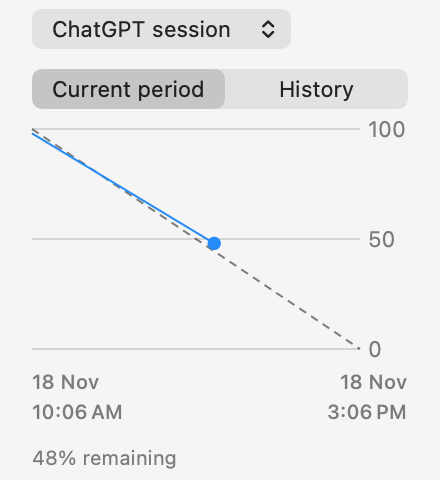
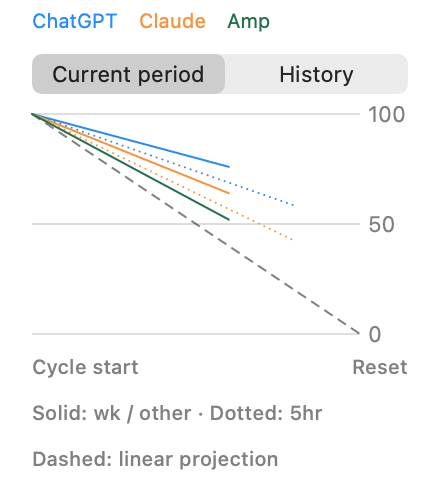
Align provider usage charts and restore fresh Claude updates
Overlay provider limits with normalized reset cycles, a shared projection, round five-hour dots, and adaptive Amp colors. Refresh on opening, label stale observations, and support account-checked Claude website collection through CodexBar.

Amp-Thread-ID: https://ampcode.com/threads/T-01a1ee43-6049-76f3-84d3-d8a02fb42e86

diff --git a/README.md b/README.md
@@ -13,9 +13,9 @@ The preview uses invented readings, rendered by the actual native chart. It is n
 - One menu-bar line with full provider names, remaining percentages, and reset countdowns.
 - Every recognized usage window returned by each source; absent windows are not invented.
 - Readable, non-selectable information rows and clickable provider headings.
-- A 220 × 240-point native remaining-usage chart with a solid observed line, dashed ideal pace, latest-reading dot, and no hover readout. Choose a limit and switch between its current period and retained history.
-- Refresh on opening, without blocking the menu, plus a one-minute timer. Claude network requests run at most every five minutes when healthy; rate limiting increases the delay and honors `Retry-After`.
-- Explicitly labeled cached readings during failures. Only successful observations enter the history.
+- A 220 × 240-point native remaining-usage chart overlaying every limit: blue for ChatGPT, orange for Claude, adaptive green for Amp; solid weekly/other limits and dotted five-hour limits. Lines stay thin, without point markers or hover readouts. Current periods align each limit's own cycle start and reset on a shared 0–100% elapsed-time axis, with one gray dashed linear projection from 100% remaining to 0% at reset. Actual readings stop at their observed cycle progress; they are not extrapolated. History retains its calendar-time axis. Limits without a known active reset window appear only in History.
+- Refresh on opening, without blocking the menu, plus a one-minute timer. Opening bypasses the minute cache: existing readings appear immediately, then the open dropdown updates when collection finishes. Claude's default OAuth source runs at most every five minutes when healthy and honors rate-limit backoff. The opt-in website source runs on the minute timer and on opening, independently of the OAuth cooldown.
+- Explicitly labeled stale readings during failures. Only successful observations enter the history.
 
 ## Requirements
 
@@ -27,6 +27,16 @@ The preview uses invented readings, rendered by the actual native chart. It is n
   - **Amp:** the `amp` CLI installed and signed in; `amp usage` must work.
 
 API-key-only accounts and alternative credential storage formats are not supported. The plugin reads credentials; it never refreshes or exports them. Sign in again using the respective CLI when authentication expires.
+
+### Claude website source
+
+If Claude's OAuth usage endpoint keeps returning 429, the website source can provide fresh readings without reducing the refresh cadence. It requires the [CodexBar CLI](https://github.com/steipete/CodexBar) (tested with 0.84.0) and a signed-in claude.ai session accessible to CodexBar. Enable it explicitly in `~/.config/swiftbar-usage/config`:
+
+```sh
+CLAUDE_SOURCE=web
+```
+
+The plugin runs `codexbar usage --provider claude --source web --format json --no-credits --web-timeout 20`. CodexBar handles browser authentication; SwiftBar does not extract or store cookies. Results must match the email and organization in the local `~/.claude.json` Claude Code profile. Cached CodexBar results, mismatched accounts, and readings over two minutes old are rejected. The source-reported timestamp is kept in history; errors preserve previous readings as stale and retry no sooner than the next minute. The website can still impose its own rate limits or require sign-in again; this is not a guarantee of unlimited requests. Set `CLAUDE_SOURCE=oauth` to revert. OAuth retry deadlines are preserved when switching sources, and no Claude Code status-line configuration is changed.
 
 ## Build and install
 
@@ -75,16 +85,16 @@ Uninstall removes the entrypoint and runtime scripts, but preserves configuratio
 | Display name | Source | Scope |
 | --- | --- | --- |
 | ChatGPT | `chatgpt.com/backend-api/wham/usage`, authenticated with the local Codex login | The Codex-related subscription windows this endpoint reports, **not all ChatGPT chat/model limits** |
-| Claude | `api.anthropic.com/api/oauth/usage`, authenticated with the local Claude Code login | Recognized five-hour, weekly, and model-specific weekly windows |
+| Claude | Default: `api.anthropic.com/api/oauth/usage` using Claude Code login. Opt-in website source: CodexBar CLI using the signed-in claude.ai session | Recognized five-hour, weekly, and model-specific windows exposed by the selected source |
 | Amp | `amp usage` CLI output | Reported agent/orb allowances and individual/workspace credit balances |
 
-These interfaces and CLI output formats may change without notice. Claude HTTP 429 means the **usage check** was throttled, not necessarily that your allowance is exhausted. The plugin retains known readings as cached and retries later. A first-run failure has no previous reading to show.
+These interfaces and CLI output formats may change without notice. Claude HTTP 429 means the **usage check** was throttled, not necessarily that your allowance is exhausted. The plugin retains known readings, labels them stale, and retries later. A first-run failure has no previous reading to show.
 
 Amp's renewal date has no exact time; its countdown is approximate and prefixed with `~`. A reset marked `due` is not evidence that a new allowance has been fetched.
 
 Data stays in `~/.cache/swiftbar-usage` (SQLite history plus normalized responses and retry state). Provider response bodies are temporarily written there during collection; credential headers are passed to curl over stdin rather than command arguments or cache files. Files created by the collector use a restrictive umask. Requests go to the providers; there is no added analytics or upload service. Do not attach your real cache, auth files, or unredacted screenshots to issues.
 
-History retains 90 days of observed samples. The chart defaults to the selected limit's current reset period, with an ideal pace from 100% at the period start to 0% at reset. The History tab shows its full retained history without an ideal-pace line. If reset timing is unavailable or expired, the chart falls back to recorded history without inventing a reset. Points keep isolated observations visible; gaps and resets break lines rather than interpolating invented usage. Dense data is reduced to per-bucket extrema for display. It starts empty unless you import existing observations (below); it cannot reconstruct unrecorded usage. With many enabled limits, the combined menu-bar title can exceed available screen space; the dropdown keeps its own compact width.
+History retains 90 days of observed samples. The chart defaults to all limits' current reset periods, aligned by elapsed cycle progress, with one shared linear projection from 100% at cycle start to 0% at reset. The History tab shows all limits' retained observations on a calendar-time axis without a projection. Limits with unavailable or expired reset timing remain visible in History but are omitted from the current-period chart rather than assigned an invented cycle. Consecutive readings are connected by straight lines, including across observation gaps and resets in History; these connecting sections are visual interpolation, not recorded measurements. No point markers are drawn, so a single reading has no visible line until a second reading arrives. Dense data is reduced to per-bucket extrema for display. It starts empty unless you import existing observations (below); it cannot reconstruct unrecorded usage. With many enabled limits, the combined menu-bar title can exceed available screen space; the dropdown keeps its own compact width.
 
 ### Import earlier ChatGPT observations
 
